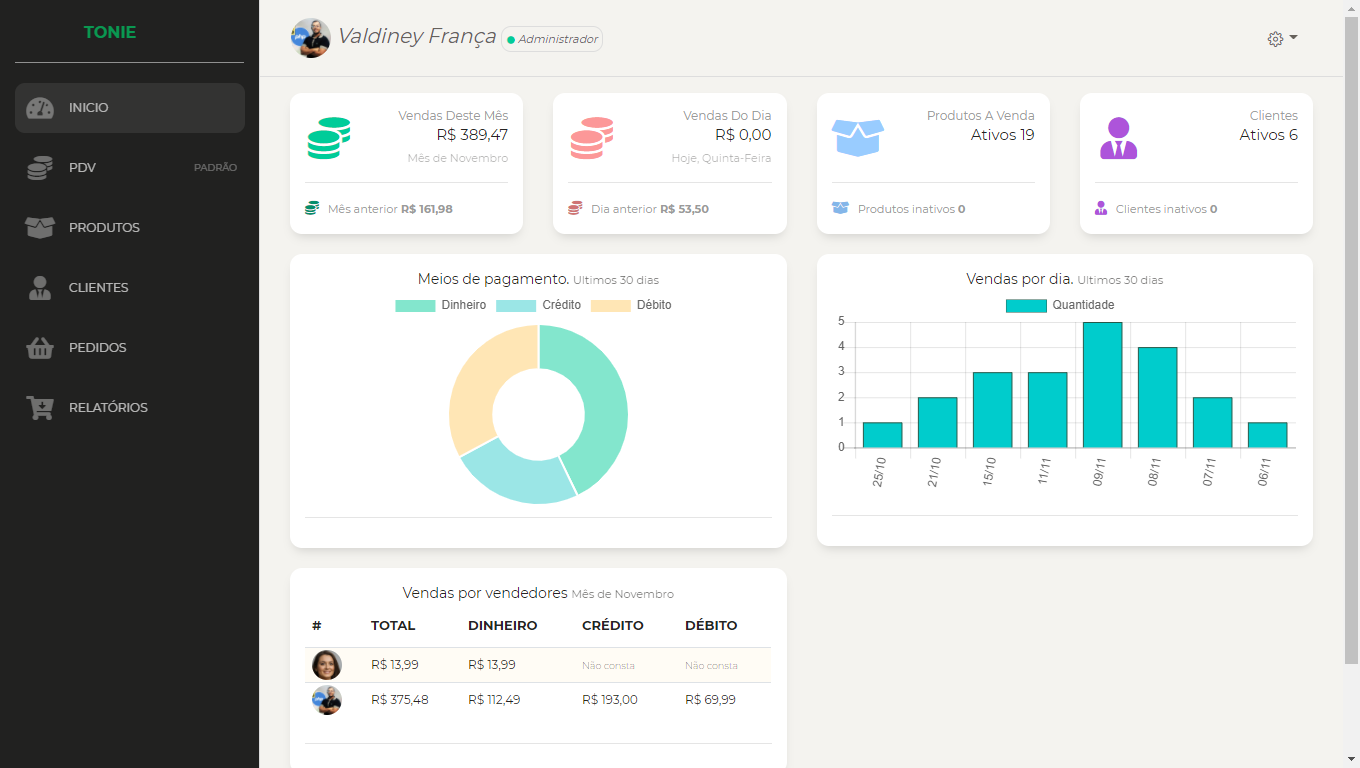
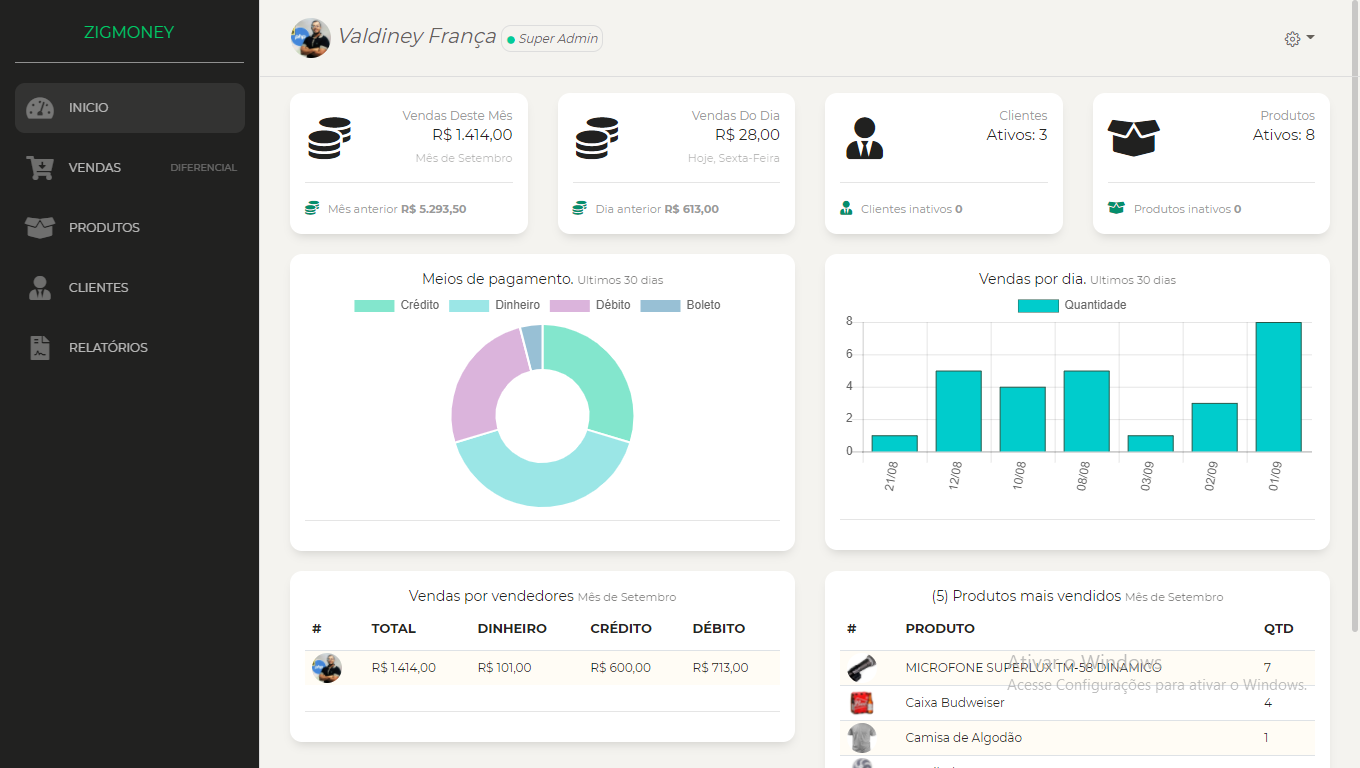
Melhorias

diff --git a/App/Views/Layouts/default.php b/App/Views/Layouts/default.php
@@ -55,7 +55,7 @@ $configPdv = $configPdv->configPdv(Session::get('idEmpresa'));
         <meta property="og:site_name" content="<?php echo getenv('APPLICATION_NAME'); ?>">
     <?php else: ?>
         <meta property="og:title" content="ZigMoney">
-        <meta property="og:site_name" content="ZigMoney>
+        <meta property="og:site_name" content="ZigMoney">
     <?php endif; ?>
 
     <meta property="og:description" content="Tentativa de criar um Chat simples usando Firebase">
@@ -130,7 +130,12 @@ $configPdv = $configPdv->configPdv(Session::get('idEmpresa'));
             </a>
             <a href="<?php echo BASEURL; ?>/pdvDiferencial" class="simple-text logo-normal">
           <span style="color:#00cc66;">&nbsp;&nbsp;&nbsp;
-            <b style="opacity:0.70">TONIE</b>
+            <?php if (getenv('APPLICATION_NAME')): ?>
+                <?php echo getenv('APPLICATION_NAME'); ?>
+            <?php else: ?>
+                <b style="opacity:0.70">ZigMoney</b>
+            <?php endif; ?>
+
           </span>
                 <!--<span>Zig</span>
                 <span>Money</span>-->

diff --git a/App/Views/produto/formulario.php b/App/Views/produto/formulario.php
@@ -3,10 +3,8 @@
 <?php if (isset($produto->id)): ?>
     <div class="row">
         <div class="col-md-12" style="opacity:0.80;background:#fffcf5">
-            <span style="margin-right:20px">
-                Código: <?php echo isset($produto->id) ? $produto->codigo : false;?>
-            </span>
-           Código de Barras:  <img src="<?php gerarCodigoDeBarrasEmPng($produto->codigo);?>" width="100">
+           <img src="<?php gerarCodigoDeBarrasEmPng($produto->codigo);?>" width="100"> <br>
+           <span style="font-size:12px;color:black;margin-left:25px"><?php echo isset($produto->id) ? $produto->codigo : false;?></span>
         </div>
     </div>
     <hr>
